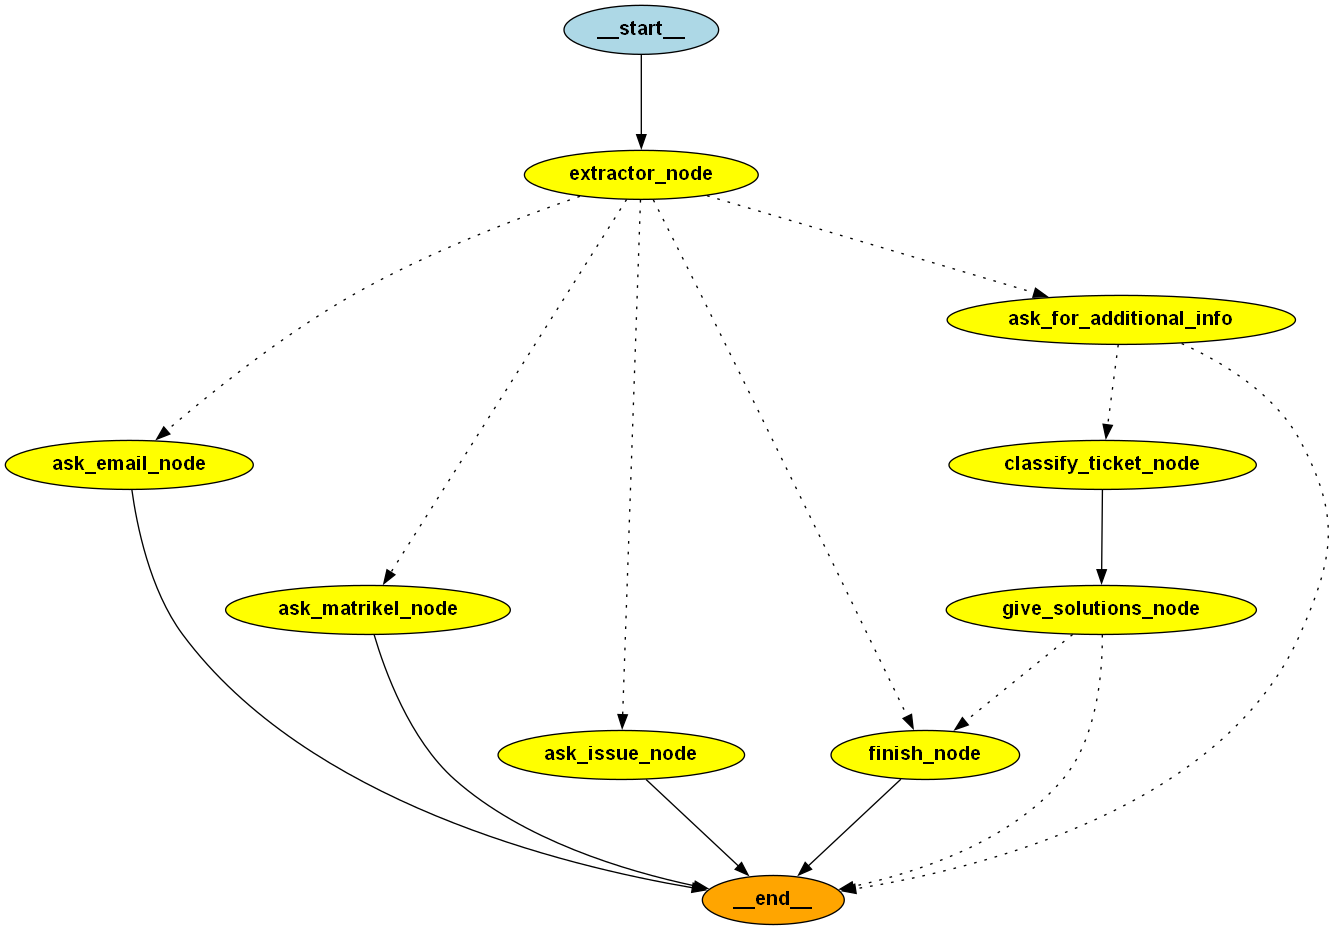
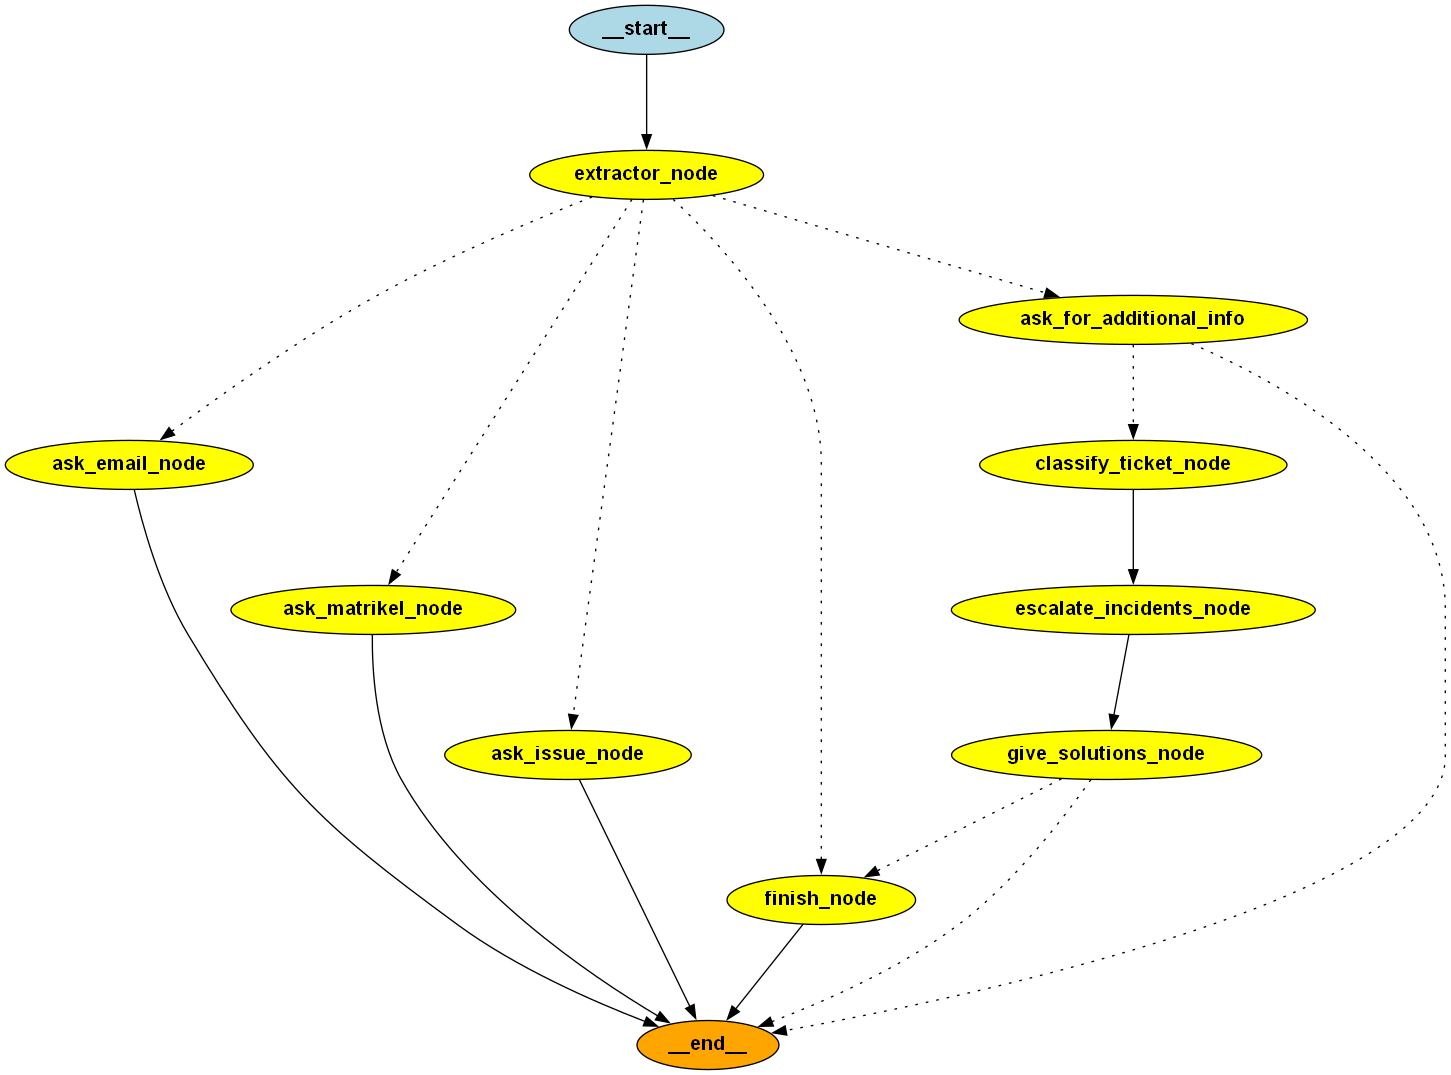
docs(langgraph): Updated visualization of the langgraph

diff --git a/backend/graph/README.md b/backend/graph/README.md
@@ -82,6 +82,7 @@ graph TD
     classify_ticket_node[classify_ticket_node <br> classify_ticket]
     give_solutions_node[give_solutions_node <br> give_solutions]
     finish_node[finish_node <br> finish_ticket]
+    escalate_incidents_node[escalate_incidents_node <br> escalate_incidents]
 
     %% --- ROUTER (CONDITIONAL EDGES) ---
     route_based_on_state{route_based_on_state}
@@ -114,7 +115,8 @@ graph TD
     route_after_evaluator -->|else| End
 
     %% Linearer Pfad
-    classify_ticket_node --> give_solutions_node
+    classify_ticket_node --> escalate_incidents_node
+    escalate_incidents_node --> give_solutions_node
 
     %% Dritter Conditional Router
     give_solutions_node --> route_after_solutions
@@ -134,6 +136,7 @@ graph TD
     style classify_ticket_node fill:#bbdefb,stroke:#1976d2
     style give_solutions_node fill:#bbdefb,stroke:#1976d2
     style finish_node fill:#bbdefb,stroke:#1976d2
+    style escalate_incidents_node fill:#bbdefb,stroke:#1976d2
     
     style ask_email_node fill:#ffecb3,stroke:#ff8f00
     style ask_matrikel_node fill:#ffecb3,stroke:#ff8f00
